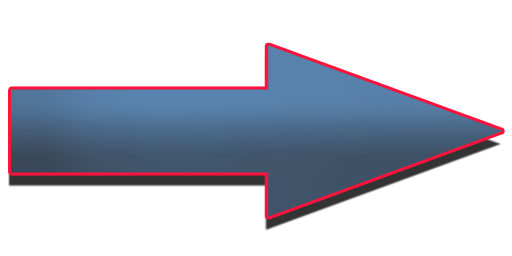
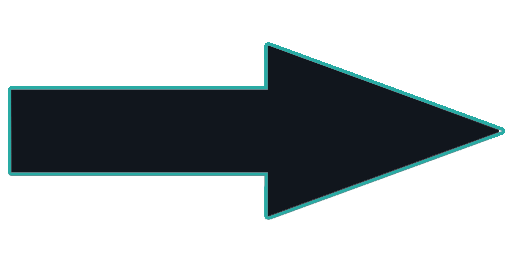
fixed contact form desktop

diff --git a/app/assets/stylesheets/home_pages.css.scss b/app/assets/stylesheets/home_pages.css.scss
@@ -444,7 +444,6 @@ float: left;
 	border: 2px solid $mintgreen;
 	outline: 1px solid transparent;
 	border-radius: 0;
-	background-color: #5d8ab9;
 }
 .red1:hover, .red2:hover, .red3:hover, .red4:hover, .red5:hover  
 .red6:hover, .red7:hover, .red8:hover, .red9:hover, .red10:hover
@@ -463,28 +462,29 @@ float: left;
 	outline: 1px solid transparent;
 }
 .contact-form-filler {
-	margin-top: 30%;
-	width: 100%;
-	background-color: rgba(0, 0, 0, .5);
-	padding: 3%;
-	border: 5px solid rgba(0, 0, 0, .5);
+	margin-top: 10%;
+	width: 50%;
+	background-color: $darkblue;
+	padding: 3% 3% 10% 3%;
+	border: 2px solid rgba(0, 0, 0, .5);
 }
 .contact-message {
-	width: 40%;
-	margin-top: -35%;
-	padding-left: 3%;
-	position: absolute;
-	background-color: rgba(0, 0, 0, .5);
+	margin-top: 0 auto;
+	padding: 0 3%;
+	width: 100%;
+	float: left;
+	text-align: center;
+
+	background-color: $darkblue;
 	-webkit-box-shadow: 0px 13px 6px 0px rgba(0,0,0,0.75);
  	-moz-box-shadow: 0px 13px 6px 0px rgba(0,0,0,0.75);
  	box-shadow: 0px 13px 6px 0px rgba(0,0,0,0.75);
  	display: none;
- 	border-radius: 0 50px 0 30px;
 }
 .mail-animate {
 	width: 75px;
 	height: 75px;
-	margin: -30% 0 0 25%;
+	margin: 0% 0 0 80%;
 	position: absolute;
 	background: url(gmail-logo.png);
 	background-size: 100%;
@@ -493,10 +493,11 @@ float: left;
 	display: none;
 }
 .arrow {
+	float: left;
 	width: 40%;
 	height: 100%;
-	margin-top: -20%;
-	margin-left: -100%;
+	margin-top: 32%;
+	margin-left: -150%;
 	background: url(arrow.png);
 	background-repeat: no-repeat;
 	background-size: 100%;
@@ -510,14 +511,20 @@ float: left;
 }
 #user_name, #user_email {
 	height: 2em;
-	width: 80%;
+	width: 100%;
+
 }
+#user_message {
+		width: 100%;
+
+	}
 .field-form {
 	color: #ddd;
 }
 .contact-submit {
-	background-color: #5f8bb7;
-	width: 50%;
+	background-color: rgba(31, 40, 52, 1);
+	margin-left: 70%;
+	width: 30%;
 	height: 30px;
 	color: #ddd;
 }
@@ -653,7 +660,7 @@ float: left;
 	border: 2px solid $purplepastel;
 } 
 // background ribbon animations -------------------------------------------->
-	
+
 	.ribbon1 {
 		bottom: 20%;
 		margin-top: 30.5%;
@@ -809,9 +816,6 @@ float: left;
 	.contact-form-filler {
 		width: 100%;
 		margin-top: 10%;
-	}
-	#user_message {
-		width: 100%;
 	}
 	.contact-submit {
 		width: 30%;

diff --git a/app/assets/javascripts/custom.js b/app/assets/javascripts/custom.js
@@ -59,11 +59,11 @@ $('.contact-animate').click(function(){
 		$('.small-mail-animate').animate({'margin-top' : '100%'}, 2000);
 	}
 	else {
-		$('.inner-form').delay(500).animate({'margin-left' : '55%'}, 1000);
+		$('.contact-form-filler').delay(500).animate({'margin-left' : '45%'}, 1000);
 		$('.contact-message').delay(1500).fadeIn('slow');
 		$('.mail-animate').delay(1500).fadeIn('slow');
 		$('.mail-animate').animate({'margin-top' : '100%'}, 2000);
-		$('.arrow').delay(2200).animate({'margin-left' : '10%'}, 1000);
+		$('.arrow').delay(2800).animate({'margin-left' : '-100%'}, 1000);
 	}
 });
 
